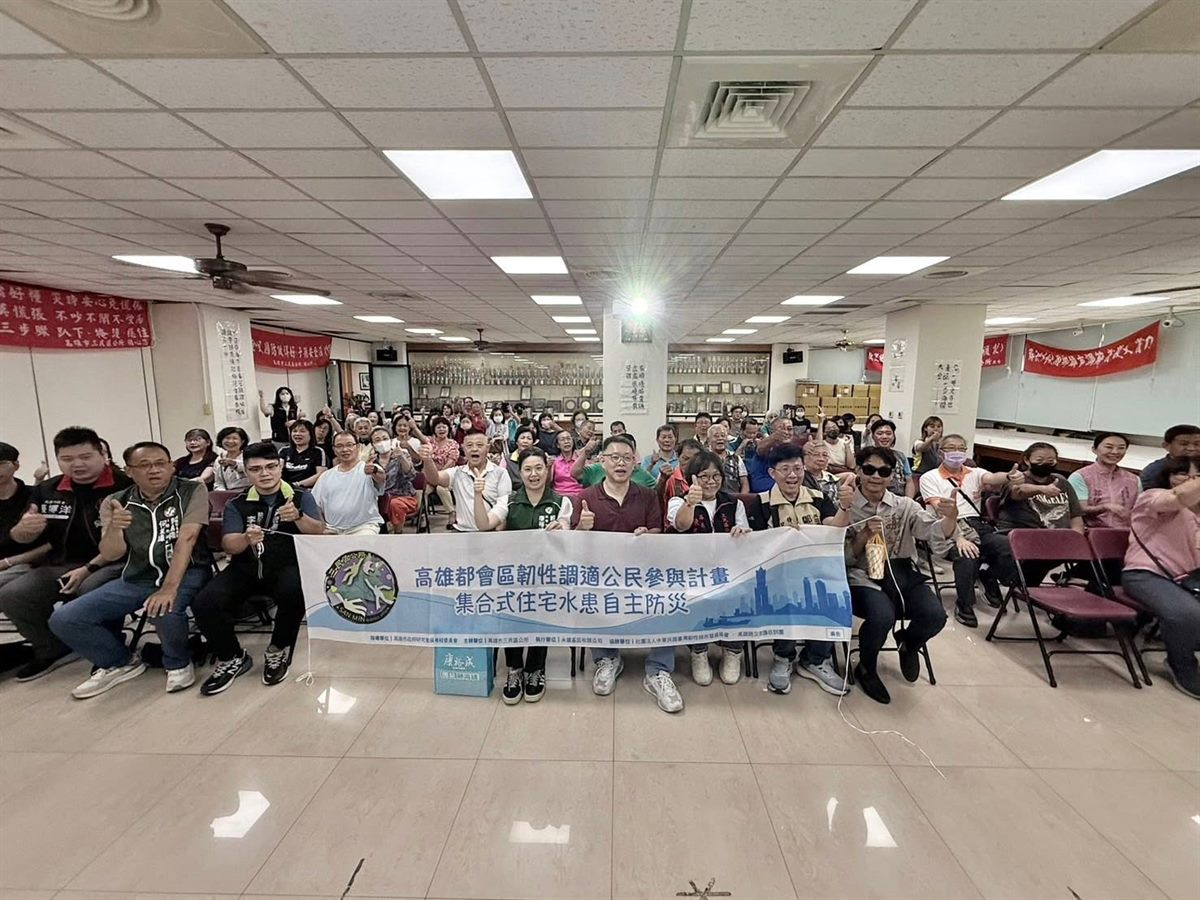
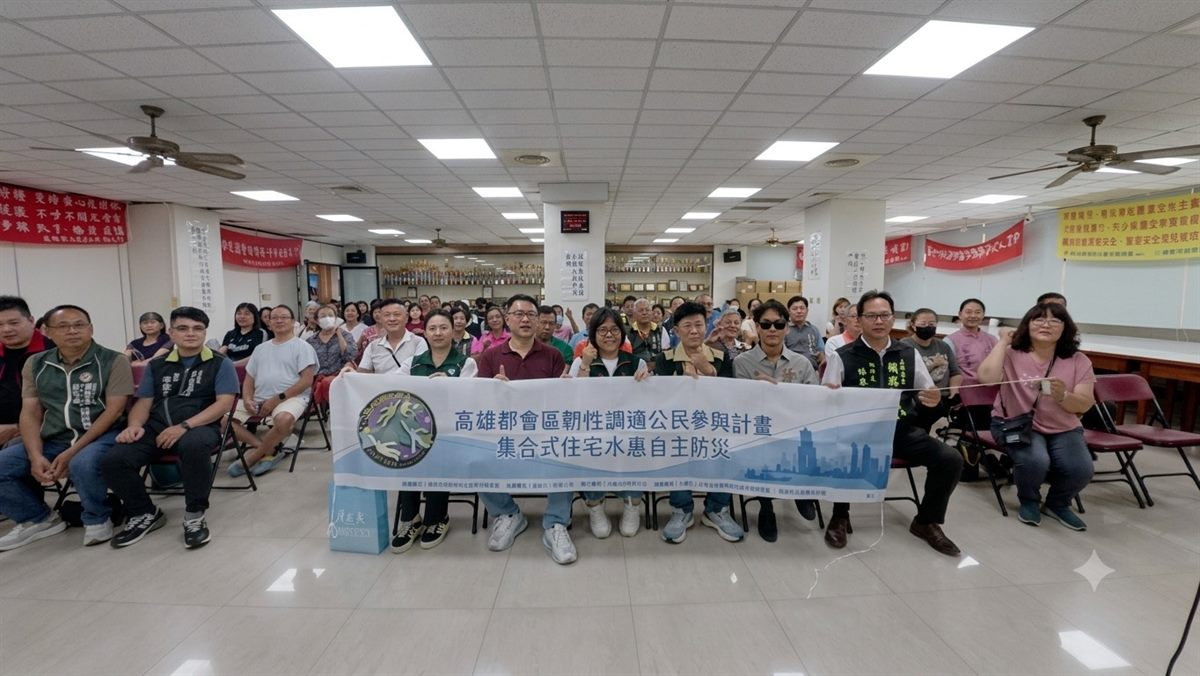
Replace event1-4 with S__74506279 and move it to first in gallery

diff --git a/index.html b/index.html
@@ -340,10 +340,10 @@
         <div class="mb-5">
           <p class="font-bold mb-3" style="color:#0d2240;">📸 活動花絮</p>
           <div class="grid grid-cols-2 md:grid-cols-3 gap-2" id="gallery-1">
-            <img src="assets/event1-1.jpg" alt="第 1 場開幕及計畫說明會活動花絮 1" loading="lazy" class="w-full rounded-lg" style="aspect-ratio:4/3; object-fit:cover;">
-            <img src="assets/event1-2.jpg" alt="第 1 場開幕及計畫說明會活動花絮 2" loading="lazy" class="w-full rounded-lg" style="aspect-ratio:4/3; object-fit:cover;">
-            <img src="assets/event1-3.jpg" alt="第 1 場開幕及計畫說明會活動花絮 3" loading="lazy" class="w-full rounded-lg" style="aspect-ratio:4/3; object-fit:cover;">
-            <img src="assets/event1-4.jpg" alt="第 1 場開幕及計畫說明會活動花絮 4" loading="lazy" class="w-full rounded-lg" style="aspect-ratio:4/3; object-fit:cover;">
+            <img src="assets/event1-4.jpg" alt="第 1 場開幕及計畫說明會活動花絮 1" loading="lazy" class="w-full rounded-lg" style="aspect-ratio:4/3; object-fit:cover;">
+            <img src="assets/event1-1.jpg" alt="第 1 場開幕及計畫說明會活動花絮 2" loading="lazy" class="w-full rounded-lg" style="aspect-ratio:4/3; object-fit:cover;">
+            <img src="assets/event1-2.jpg" alt="第 1 場開幕及計畫說明會活動花絮 3" loading="lazy" class="w-full rounded-lg" style="aspect-ratio:4/3; object-fit:cover;">
+            <img src="assets/event1-3.jpg" alt="第 1 場開幕及計畫說明會活動花絮 4" loading="lazy" class="w-full rounded-lg" style="aspect-ratio:4/3; object-fit:cover;">
             <img src="assets/event1-5.jpg" alt="第 1 場開幕及計畫說明會活動花絮 5" loading="lazy" class="w-full rounded-lg" style="aspect-ratio:4/3; object-fit:cover;">
             <img src="assets/event1-6.jpg" alt="第 1 場開幕及計畫說明會活動花絮 6" loading="lazy" class="w-full rounded-lg" style="aspect-ratio:4/3; object-fit:cover;">
           </div>
